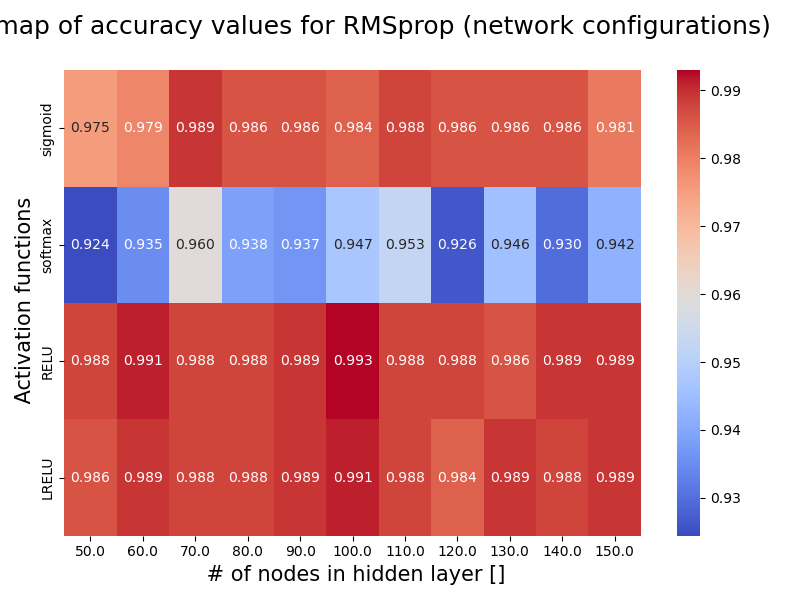
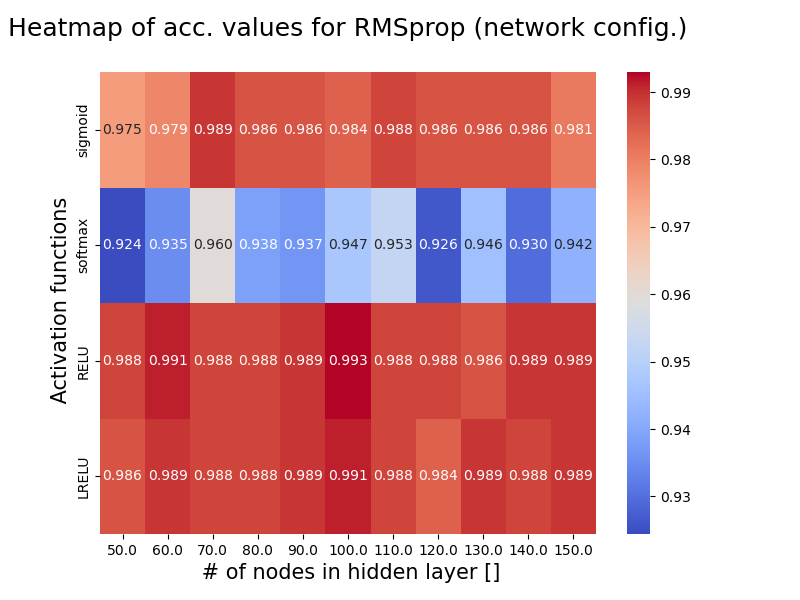
fixed an issue where the title on the network config plot was cut off

diff --git a/task_d_OP.py b/task_d_OP.py
@@ -1058,6 +1058,7 @@ if __name__ == "__main__":
     
     y = y.reshape(-1,1)
     
+    """
     MLPGD = Network([30,100,1], LRELU, sigmoid, CostLogReg)
     MLPGD.reset_weights()
     MLPGD.set_classification()
@@ -1103,7 +1104,7 @@ if __name__ == "__main__":
     #Will choose 0 since it coincides with findings from other subtasks.
     
     #After testing RMSprop the actual optimal lambda is 0, as found in Mom GD plot
-    
+    """
     
     
     hidden_nodes_vals = np.linspace(50, 150, 11)
@@ -1128,9 +1129,9 @@ if __name__ == "__main__":
     sns.heatmap(accuracy_list_config_test.T, annot=True, cmap="coolwarm", xticklabels=hidden_nodes_vals, yticklabels=act_funcs_labels, fmt='.3f')
     plt.xlabel(r" # of nodes in hidden layer []", fontsize = lablesize)
     plt.ylabel(r" Activation functions", fontsize = lablesize)
-    plt.title(f"Heatmap of accuracy values for RMSprop (network configurations)\n ", fontsize=fontsize)
-    plt.tight_layout()
-    plt.savefig("Additional_Plots/RMSprop_network_config_heatmap.png")
+    plt.title(f"Heatmap of acc. values for RMSprop (network config.)\n ", fontsize=fontsize)
+    #plt.tight_layout()
+    plt.savefig("Additional_Plots/RMSprop_network_config_heatmap.png", pad_inches=0.5)
     plt.show()
     
     
@@ -1139,7 +1140,7 @@ if __name__ == "__main__":
     
     
     
-    #use RMSprop for training
+    """
     MLP_RMSprop1 = Network([30,100,1], RELU, sigmoid, CostLogReg)
     MLP_RMSprop1.reset_weights()
     MLP_RMSprop1.set_classification()
@@ -1250,3 +1251,4 @@ if __name__ == "__main__":
     y_pred = final_accuracy[-1]
     print(f"log_loss = {log_loss(y, y_pred)}")
     print(f"Confusion Matrix = {confusion_matrix(y, y_pred, normalize='true')}")
+    """
